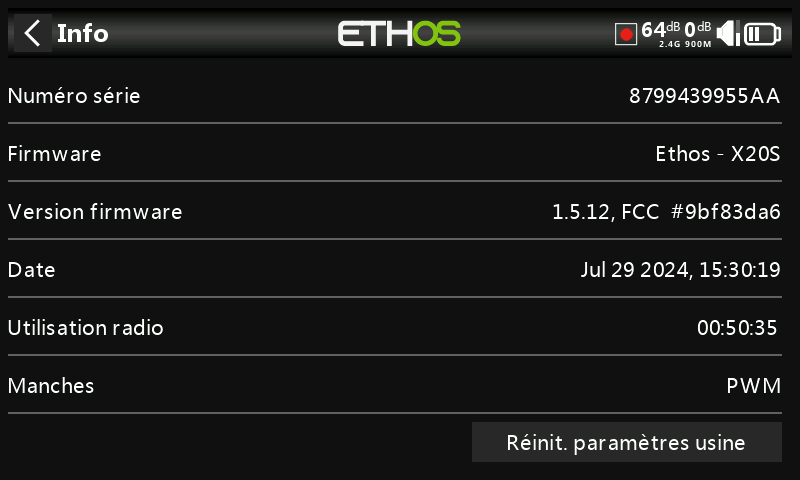
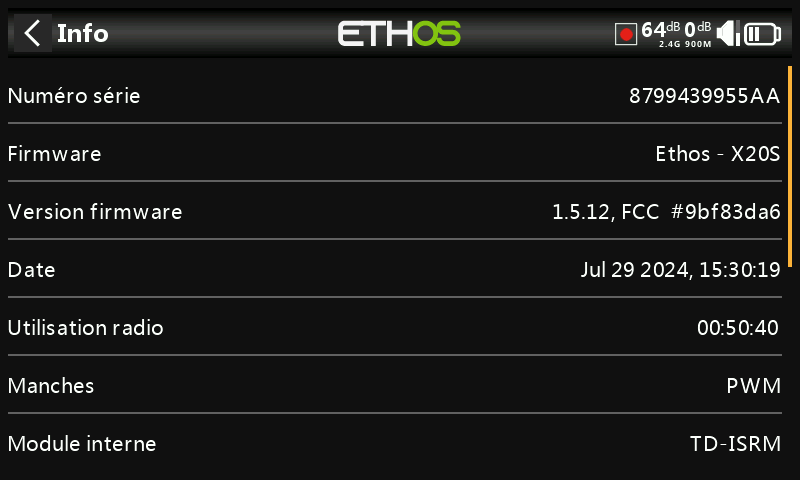
Revue Système / Information

diff --git a/configuration-du-systeme/information.md b/configuration-du-systeme/information.md
@@ -1,35 +1,32 @@
 ## Information
 
 ![Icône Information](../assets/system-icon-info.png)
-![Information](../assets/system-info.png)
 
 La page d'informations affiche des informations sur le micrologiciel du système, le type de cardan, la version du micrologiciel du module interne, le micrologiciel du récepteur ACCESS, TD ou TW et des informations sur le module externe.
 
-**X18 et X20**
+![Information](../assets/system-info.png)
 
-![](../assets/1 (5).png)
-
-**Numéro de série**
+### Numéro de série
 
 Numéro de série de la radio.
 
-**Firmware**
+### Firmware
 
 Ethos, firmware, et type de radio (par exemple X20).
 
-**Version du firmware**
+### Version du firmware
 
 Version et type actuels du micrologiciel, par exemple FCC, LBT ou Flex.
 
-**Date**
+### Date
 
 Date et heure de la version du micrologiciel.
 
-**Erreurs**
+### Erreurs
 
-<!-- ![](../assets/2 (2).png) -->
+![Erreurs](../assets/system-info-errors.png)
 
-Lorsqu'ETHOS détecte une erreur, une icône d'avertissement d'erreur en triangle rouge s'affiche dans la barre supérieure de la vue principale.
+Lorsque Ethos détecte une erreur, une icône d'avertissement d'erreur en triangle rouge s'affiche dans la barre supérieure de la vue principale.
 
 Les erreurs peuvent être dues à :
 
@@ -39,46 +36,37 @@ Les erreurs peuvent être dues à :
 **RAM backup error (erreur Mémoire de sauvegarde)**\
 **Un modèle peut être si énorme qu'il dépasse la RAM de sauvegarde. ETHOS a maintenant étendu l'espace RAM pour la sauvegarde des modèles de 4k à 32k, il est donc peu probable qu'il soit dépassé maintenant. Il s'agit d'une erreur majeure qui ralentira le chargement du modèle en mode d'urgence à partir de la carte SD au lieu de la RAM de secours.**\
 
-
 **Exécution d'une version nocturne (version de test) du firmware**\
 **Si une version de test du firmware a été chargée, l'icône d'avertissement sert à rappeler à l'utilisateur que les versions nocturnes ne sont pas destinées à voler.**\
 
-
-**Manches**
+### Manches
 
 La version capteur à effet Hall à cardan installée. L'ADC est pour l'analogique.
 
-**Module interne**
+### Module interne
 
 Détails du module RF interne, y compris les versions du matériel et du micrologiciel.
 
-<!-- ![](../assets/3 (5).jpeg)
-![](../assets/4 (7).jpeg) -->
+![Version du module interne](../assets/system-info-internal-module.png)
 
-**Récepteur**
+### Récepteurs
 
-Les détails du récepteur lié sont affichés après le module interne. Si un récepteur redondant est lié au même emplacement que le récepteur principal, les détails du récepteur s'affichent alternativement à l'écran. L'exemple ci-dessus montre un Archer SR10 Pro et son R9MM-OTA redondant est illustré par rapport aux détails du récepteur1.
+Les détails des récepteurs liés sont affichés après le module interne. Si un récepteur redondant est lié au même emplacement que le récepteur principal, les détails du récepteur s'affichent alternativement à l'écran. L'exemple ci-dessus montre un Archer SR10 Pro et son R9MM-OTA redondant est illustré par rapport aux détails du récepteur1.
 
-**Module externe**
+### Module externe
 
 Détails de tout module RF FrSky externe (le cas échéant), y compris les versions du matériel et du micrologiciel si le protocole ACCESS.
 
 Les multimodules ne sont pas affichés.
 
-**Réinitialiser les paramètres d'usine**
+### Réinitialiser les paramètres d'usine
 
-Permet de rétablir les paramètres d'usine de la radio. Aucune connexion USB PC n'est nécessaire, c'est tout fait à la radio.
+Permet de rétablir les paramètres d'usine de la radio. Aucune connexion USB PC n'est nécessaire.
 
-<!-- ![](../assets/5 (1).png) -->
+![Réinitialisation de la radio](../assets/system-info-factory-reset.png)
 
-Lorsque vous confirmez que vous souhaitez réinitialiser les paramètres d'usine, la radio efface tous les modèles, les fichiers journaux, les captures d'écran, les documents, les scripts, les bitmaps et les paramètres de la radio.\
+Lorsque vous confirmez que vous souhaitez réinitialiser les paramètres d'usine, la radio efface tous les modèles, les fichiers journaux, les captures d'écran, les documents, les scripts, les bitmaps et les paramètres de la radio.
 
-<!-- ![](../assets/6 (3).png) -->
+![Confirmation de réinitialisation de la radio](../assets/system-info-factory-reset-confirm.png)
 
-Il y a une barre de progression pendant le processus d'effacement. Il démontera ensuite tous les lecteurs et redémarrera la radio.
-
-**X20 Pro/R/RS**
-
-![](../assets/7.png)
-
-Informations similaires pour la X20 Pro/R/RS.
+Une barre de progression est affichée pendant le processus d'effacement, puis la radio redémarre, remise à neuf.
